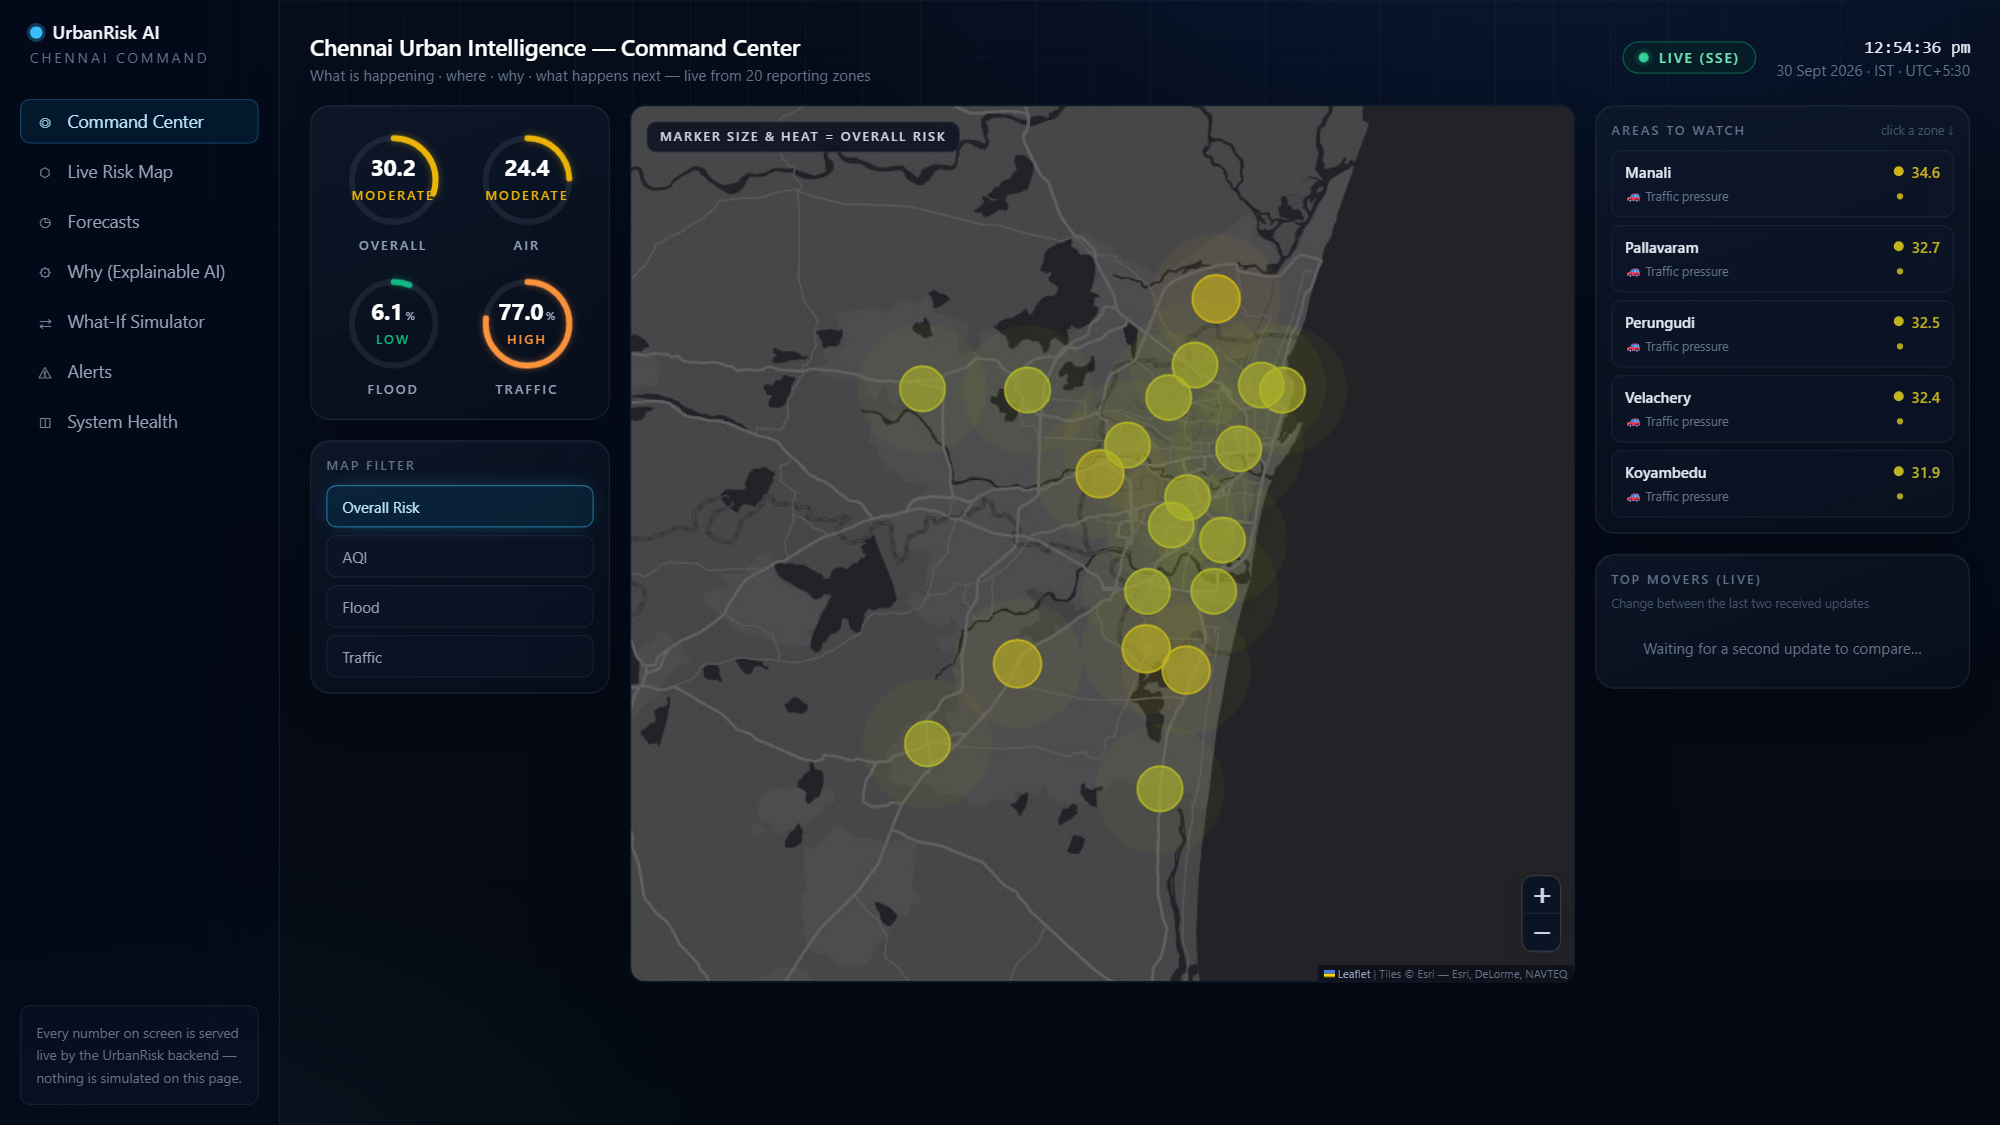
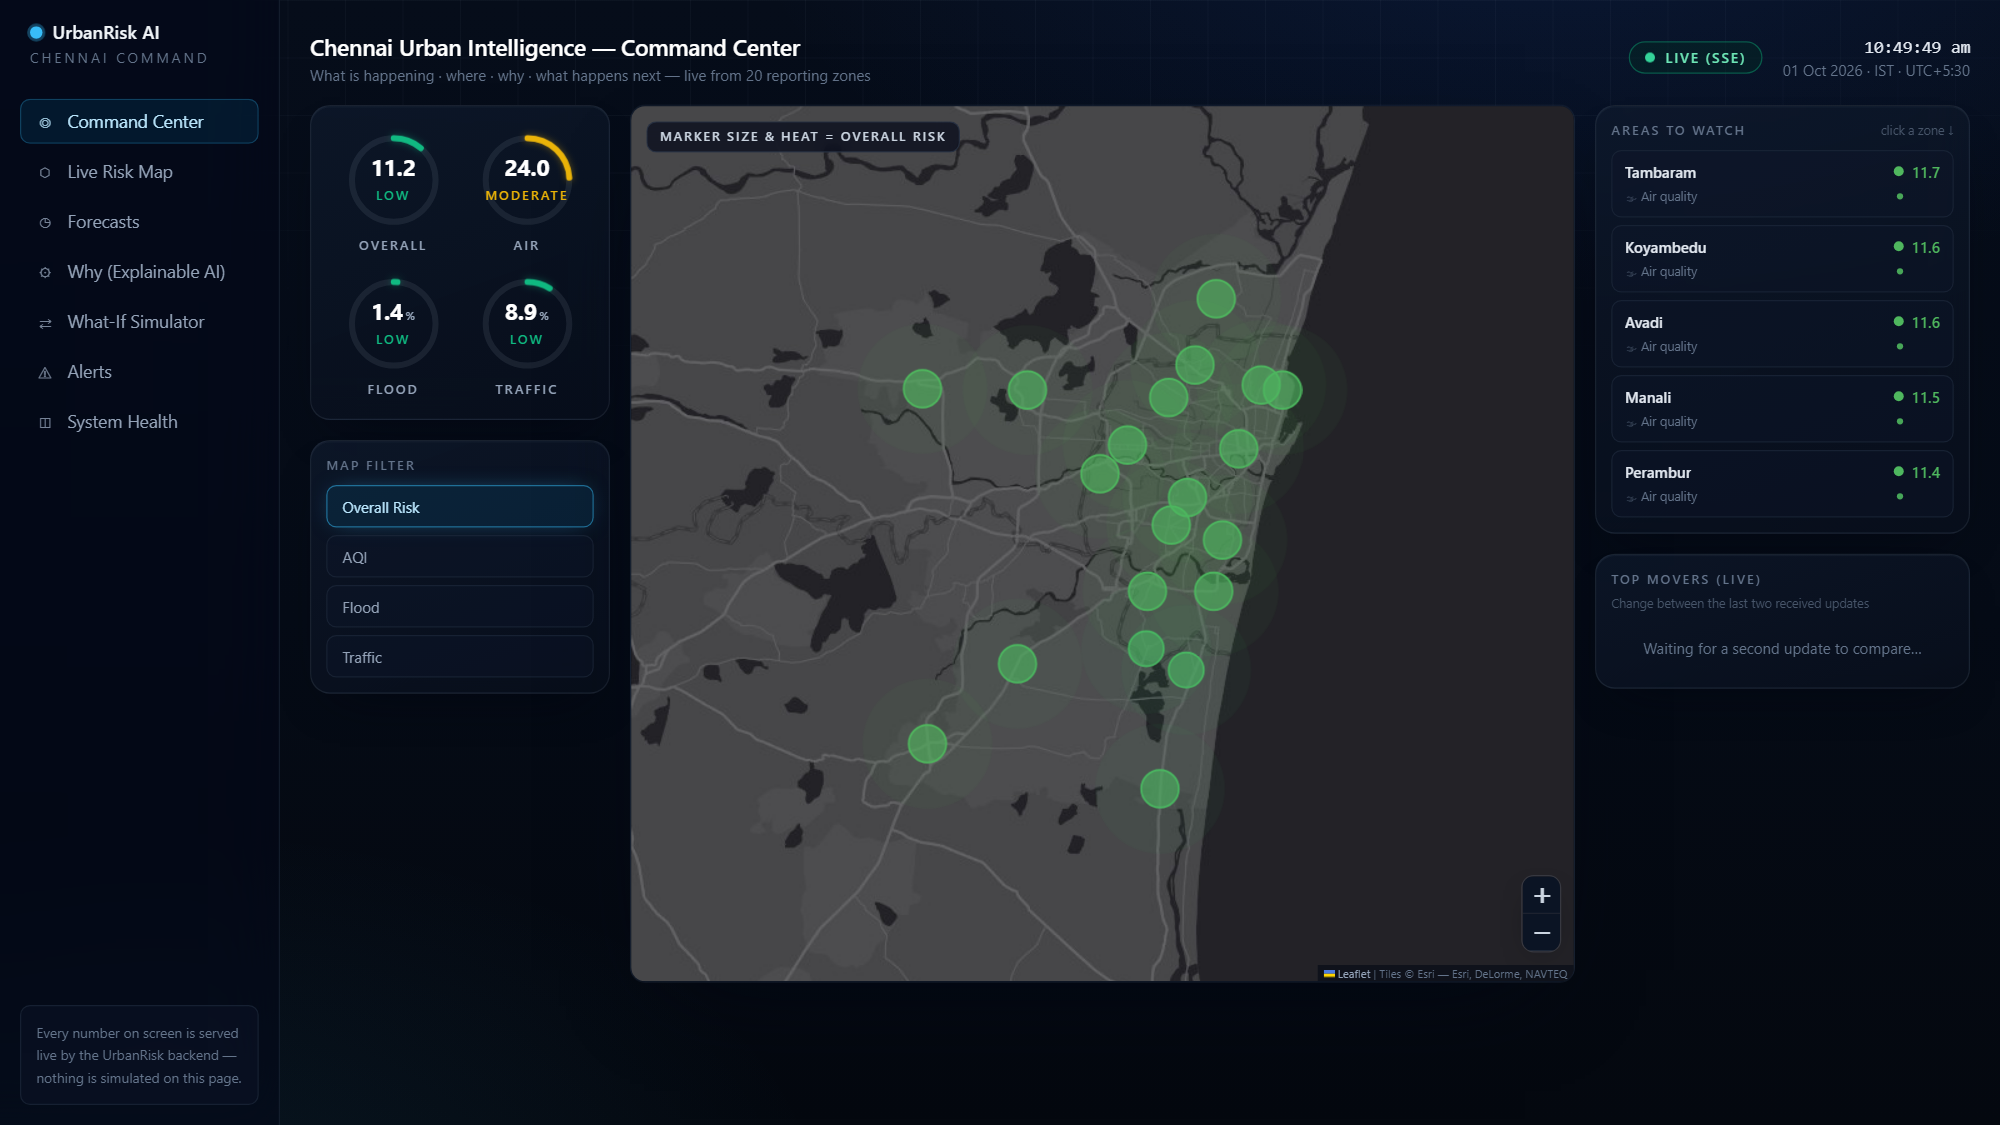
Add ops runbook (Neon migration, auto-deploy fix, free-tier behavior) and refresh README screenshots from the live deployment

diff --git a/docs/OPERATIONS.md b/docs/OPERATIONS.md
@@ -1,0 +1,79 @@
+# Operations runbook
+
+Live deployment map (as of 2026-10-01):
+
+| Piece | Where | Notes |
+|---|---|---|
+| Frontend | https://urbanrisk-ai.vercel.app | Vercel, root dir `frontend/`, env var `VITE_API_BASE_URL` (type: Config) |
+| Backend API + SSE | https://urbanrisk-backend-4yqu.onrender.com | Render free web service (Docker), models baked into image |
+| Postgres | Render `urbanrisk-db` (free) | ⚠ **free Postgres expires 30 days after creation — migrate before then** |
+| Ingestion | Runs inside the web service (`ENABLE_INGESTION=1` default) | 10-min cycle, batched Open-Meteo with MET Norway fallback |
+| Watchdog | GitHub Actions cron (this repo) | Pings the API every 15 min; opens/closes the issue “Ingestion watchdog: live data stalled” |
+
+## ⚠ 1. Render free Postgres expires after 30 days
+
+Render deletes free databases ~30 days after creation. Migrate to **Neon** (or
+Supabase) — both have genuinely free, non-expiring tiers — while the current DB
+still works:
+
+1. Create a Neon project (region close to you; Chennai users → Singapore/Mumbai).
+2. Copy the **pooled connection string** (`postgresql://user:pass@ep-...neon.tech/neondb?sslmode=require`).
+3. Render dashboard → `urbanrisk-backend` → **Environment** → edit `DATABASE_URL` → paste the Neon string → **Save** (this redeploys the service).
+4. Verify `https://urbanrisk-backend-4yqu.onrender.com/api/data-health` still returns sources.
+5. Only after verification, delete the old Render DB.
+
+No code change is needed — `app/database.py` uses the URL as a plain SQLAlchemy
+connection string and Neon speaks the same Postgres protocol.
+
+## 2. Fix auto-deploy (pushes stopped triggering deploys)
+
+Render deployed `9af39d9` at 8:02 PM IST and then ignored every later push. To repair:
+
+1. Render dashboard → `urbanrisk-backend` → **Settings → Build & Deploy → Auto-Deploy** → set **“On for `main`”**.
+2. GitHub → this repo → **Settings → Webhooks** → open the `api.render.com` webhook → check **Recent Deliveries** for failures (a `403`/`404` usually means the Render GitHub App lost repo access → fix in Render → Account Settings → **GitHub Permissions** → re-grant access to `Jagrit05/urbanrisk-ai`).
+3. Until it's fixed, **Manual Deploy → Deploy latest commit** is the reliable path — use it after every push.
+
+> Deployment status check: the seeded row `metno_locationforecast` in
+> `/api/data-health` only exists on commits `7a8f4e6`+. If that key is missing,
+> the running service predates the hardening work and should be redeployed.
+
+## 3. Ingestion watchdog (GitHub Actions)
+
+`.github/workflows/watchdog.yml` runs every 15 minutes:
+
+- Pings `/api/dashboard` + `/api/data-health` (with retries to ride out ~60 s cold starts).
+- **Opens a GitHub issue** when 0 zones report or the weather/AQ sources are stale (>30 min); comments on the existing issue instead of spamming duplicates.
+- **Auto-closes the issue** on recovery.
+- Runs on GitHub's IPs, so it is immune to Render's provider throttling and cold starts.
+- Manual runs: Actions → Ingestion watchdog → **Run workflow**.
+
+Note: GitHub disables scheduled workflows after 60 days of repo inactivity — any
+commit resets the clock (the watchdog itself failing creates activity via issues,
+which does not count; a code commit does).
+
+## 4. Storage retention
+
+`backend/app/ingestion/worker.py` prunes `weather` / `air_quality` rows older
+than `OBSERVATION_RETENTION_DAYS` (default **45**) once per UTC day. Predictions
+never read history from the live DB (models come from the M1–M3 training
+artifacts), so this only bounds growth (~5,800 rows/day otherwise).
+
+## 5. Free-tier behavior to expect
+
+- **Cold starts:** after ~15 min without traffic the web service sleeps; the next
+  request takes ~50–60 s. The Vercel frontend will show a spinner meanwhile; the
+  watchdog's retries are tuned for this. (Optional: a free UptimeRobot ping every
+  10 min keeps it warm, at the cost of burning free instance hours.)
+- **Shared egress IP:** Open-Meteo rate-limits per client IP, and Render's free
+  instances share IPs — some cycles may fall back to MET Norway (check
+  `/api/data-health`: weather rows may come from `metno_locationforecast`).
+- **First deploy of new code takes ~5 min** (Docker layers cached after that).
+
+## 6. Runbook: dashboard shows “0 reporting zones”
+
+1. Open `/api/data-health` — are `openmeteo_weather` / `metno_locationforecast` /
+   `openmeteo_air_quality` fresh?
+2. If yes but the dashboard is empty → check the SSE stream in the browser dev tools.
+3. If no → Render logs: look for `[ingestion]` lines (batch failures print there).
+4. Check the watchdog issue for when it started, and Render Events for a crash loop.
+5. Nuclear option: Render → **Manual Deploy → Deploy latest commit**.
